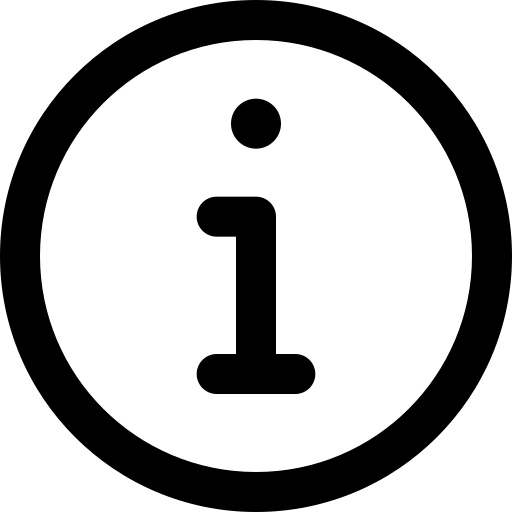
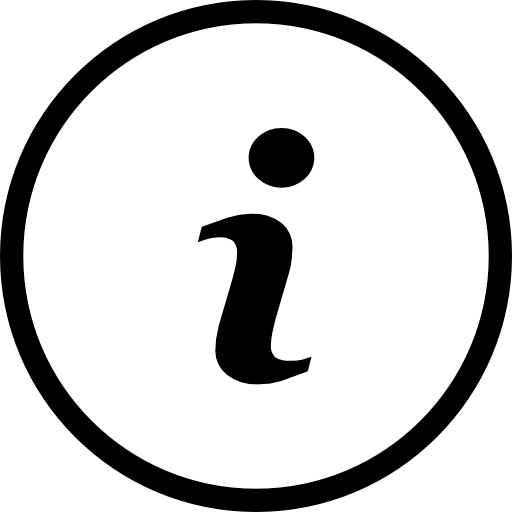
go gome soon

Changed region(s): [[0.0312, 0.0312, 0.9688, 0.9688], [0.375, 0.1875, 0.625, 0.7812]]

diff --git a/src/components/CreateTaskPage/CreateTaskPage.jsx b/src/components/CreateTaskPage/CreateTaskPage.jsx
@@ -7,7 +7,6 @@ import { $user } from '../../store/user';
 import { useNavigate } from 'react-router-dom';
 import { $workerStatus } from '../../store/workers';
 import { setIsLoading } from '../../store/loadingState';
-import InputMask from 'react-input-mask';
 import WorkerSelect from './WorkerSelect/WorkerSelect';
 import ChooseByDepartmentBlock from './ChooseByDepartmentBlock/ChooseByDepartmentBlock';
 import { $customers, getCustomerByPhone } from '../../store/getCusomer';
@@ -20,7 +19,7 @@ import ObjectAddressSelect from './ObjectAddressSelect/ObjectAddressSelect';
 const CreateTaskPage = () => {
 	const navigate = useNavigate();
 	const { register, handleSubmit, watch, setValue, getValues } = useForm();
-	const [tel, setTel] = useState('');
+	const [phone, setPhone] = useState('');
 
 	const user = useStore($user);
 	const workers = useStore($workerStatus);
@@ -29,7 +28,7 @@ const CreateTaskPage = () => {
 	const typeTask = ['Позвонить', 'Сделать договор', 'Другое'];
 
 	const onSubmit = (data) => {
-		createTask(data, user, () => navigate('/'), tel);
+		createTask(data, user, () => navigate('/'), phone);
 	};
 
 	const files = getValues('files');
@@ -59,10 +58,11 @@ const CreateTaskPage = () => {
 	}, [workers, allWorkersHandler]);
 
 	// console.log(customers);
-	// console.log(tel);
+	// console.log(phone);
 	// console.log(watch());
 	// console.log(allObjects);
 	// console.log('render');
+	// console.log(isSameNumber);
 
 	return (
 		<>
@@ -83,21 +83,17 @@ const CreateTaskPage = () => {
 				</label>
 				<label>
 					<p>Телефон клиента</p>
-					<InputMask
-						mask={'9 999 999-99-99'}
-						maskChar={''}
-						value={tel}
+					<input
 						onChange={(e) => {
-							setTel(e.target.value);
+							setPhone(e.target.value.replace(/[^\d]/g, ''));
 
-							if (e.target.value.length === 15) {
+							if (e.target.value.length === 11) {
 								setIsLoading(true);
 								getCustomerByPhone(e.target.value);
 								setShowObjectsPopUp(true);
 							}
-						}}>
-						{(inputProps) => <input {...inputProps} type="tel" disableunderline="true" />}
-					</InputMask>
+						}}
+						value={phone}></input>
 				</label>
 				<label>
 					<p>ФИО клиента</p>

diff --git a/src/components/TaskPage/Info/ChangeInfo/ChangeInfo.jsx b/src/components/TaskPage/Info/ChangeInfo/ChangeInfo.jsx
@@ -8,7 +8,6 @@ import { useStore } from 'effector-react';
 import { $user } from '../../../../store/user';
 import { setReaded } from '../../../../services-api/setReaded';
 import { $singleTask, setSingleTask } from '../../../../store/selectedTask';
-import InputMask from 'react-input-mask';
 import { useForm } from 'react-hook-form';
 import { changeTask } from '../../../../services-api/changeTask';
 import User from '../../../../img/user.png';
@@ -18,12 +17,12 @@ const ChangeInfo = ({ setIsMainInfo }) => {
 	const task = useStore($singleTask);
 	const user = useStore($user);
 
-	const [tel, setTel] = useState(task.client_phone);
+	const [phone, setPhone] = useState(task.client_phone);
 
 	// const { register, handleSubmit, watch, setValue, getValues } = useForm();
 	const { register, handleSubmit, setValue } = useForm();
 
-	const onSubmit = (data) => changeTask(data, tel, user, setIsMainInfo, setSingleTask);
+	const onSubmit = (data) => changeTask(data, phone, user, setIsMainInfo, setSingleTask);
 
 	useEffect(() => {
 		if (task.id && task.readed === '0000-00-00 00:00:00' && user.ID === task.customerID) {
@@ -88,9 +87,7 @@ const ChangeInfo = ({ setIsMainInfo }) => {
 				<img src={Phone} alt="phone-number" />
 				<p>Телефон:</p>
 				<p>
-					<InputMask mask="+7\ 999 999-99-99" maskChar={''} value={tel} onChange={(e) => setTel(e.target.value)}>
-						{(inputProps) => <input {...inputProps} type="tel" disableunderline="true" />}
-					</InputMask>
+					<input value={phone} onChange={(e) => setPhone(e.target.value)}></input>
 				</p>
 			</div>
 

diff --git a/src/components/TaskPage/History/History.jsx b/src/components/TaskPage/History/History.jsx
@@ -57,8 +57,17 @@ const History = () => {
 
 		if (task.deffect_time !== '0000-00-00 00:00:00') {
 			setCheckpoints((prev) => [...prev, { title: 'Брак', status: true, date: task.deffect_time }]);
-			setCheckpoints((prev) => [...prev, { title: 'Брак исправлен', status: task.deffect_completed !== '0000-00-00 00:00:00' , date: task.deffect_completed }]);
+		}
 
+		if (task.deffect_completed !== '0000-00-00 00:00:00') {
+			setCheckpoints((prev) => [
+				...prev,
+				{
+					title: 'Брак исправлен',
+					status: task.deffect_completed !== '0000-00-00 00:00:00',
+					date: task.deffect_completed,
+				},
+			]);
 		}
 	}, [task]);
 
@@ -79,17 +88,16 @@ const History = () => {
 					/>
 				))}
 			</div>
-			{task.timeEnd !== '0000-00-00 00:00:00' ||
-				(task.deffect_completed !== '0000-00-00 00:00:00' && (
-					<Report
-						id={task.id}
-						title={task.title}
-						status={task.status}
-						comment={task.report_comment}
-						filesArr={task.report_files ? task.report_files.split(';') : false}
-						date={task.timeEnd !== '0000-00-00 00:00:00' ? task.timeEnd : task.deffect_completed}
-					/>
-				))}
+			{task.status === 'Выполнено' || task.status === 'Брак исправлен' ? (
+				<Report
+					id={task.id}
+					title={task.title}
+					status={task.status}
+					comment={task.report_comment}
+					filesArr={task.report_files ? task.report_files.split(';') : false}
+					date={task.timeEnd !== '0000-00-00 00:00:00' ? task.timeEnd : task.deffect_completed}
+				/>
+			) : null}
 		</div>
 	);
 };

diff --git a/src/components/TaskPage/Files/ImageFile/ImageFile.jsx b/src/components/TaskPage/Files/ImageFile/ImageFile.jsx
@@ -1,9 +1,24 @@
-import React from 'react';
+import React, { useCallback, useRef } from 'react';
+import QuickPinchZoom, { make3dTransformValue } from 'react-quick-pinch-zoom';
 
 const ImageFile = ({ src }) => {
+	const imgRef = useRef();
+
+	const onUpdate = useCallback(({ x, y, scale }) => {
+		const { current: img } = imgRef;
+
+		if (img) {
+			const value = make3dTransformValue({ x, y, scale });
+
+			img.style.setProperty('transform', value);
+		}
+	}, []);
+
 	return (
 		<div>
-			<img src={src} alt={src} />
+			<QuickPinchZoom onUpdate={onUpdate}>
+				<img ref={imgRef} src={src} alt={src} />
+			</QuickPinchZoom>
 		</div>
 	);
 };

diff --git a/src/services-api/sendMessage.js b/src/services-api/sendMessage.js
@@ -1,6 +1,6 @@
 import { $linkServer } from "../$config";
 
-export function sendMessage(senderID, senderName, commentText, taskID, getAllMessage) {
+export function sendMessage(senderID, senderName, commentText, taskID, getAllMessages) {
 
 	const formData = new FormData();
 
@@ -16,7 +16,7 @@ export function sendMessage(senderID, senderName, commentText, taskID, getAllMes
 		.then(res => res.json())
 		.then(res => {
 			// console.log(res);
-			getAllMessage();
+			getAllMessages();
 		})
 		.catch(err => console.log(err))
 }

diff --git a/src/store/getCusomer.js b/src/store/getCusomer.js
@@ -18,18 +18,3 @@ export const $customers = createStore({}).on(
 	getCustomerByPhone.doneData,
 	(_, data) => data
 );
-
-export const setIsSameNumber = createEvent();
-
-export const $isSameNumber = createStore(0).on(
-	setIsSameNumber, (prev, payload) => prev === payload
-);
-
-export const $customersStatus = combine($customers, $isSameNumber,
-	(customers, isSameNumber) => {
-		if (isSameNumber) {
-			return {}
-		} else {
-			return customers
-		}
-	})

diff --git a/src/components/TaskPage/Chat/Chat.jsx b/src/components/TaskPage/Chat/Chat.jsx
@@ -74,7 +74,7 @@ const Chat = () => {
 							/>
 						</div>
 					))}
-				{/* Чат будет прокручиваться до этого элемента который будет всегда вконце чата */}
+				{/* Чат будет прокручиваться до этого элемента, который будет всегда вконце чата */}
 				<div ref={lastDiv} />
 			</div>
 			<div className={styles.input_area}>

diff --git a/src/components/TaskPage/TaskPageHeader/TaskPageHeader.jsx b/src/components/TaskPage/TaskPageHeader/TaskPageHeader.jsx
@@ -1,6 +1,6 @@
 import React from 'react';
 import styles from './TaskPageHeader.module.scss';
-import Info from '../../../img/icons8-info-50.png';
+import Info from '../../../img/info.png';
 import Files from '../../../img/icons8-cloud-file-40.png';
 import History from '../../../img/icons8-time-machine-40.png';
 import Chat from '../../../img/icons8-chat-40.png';
